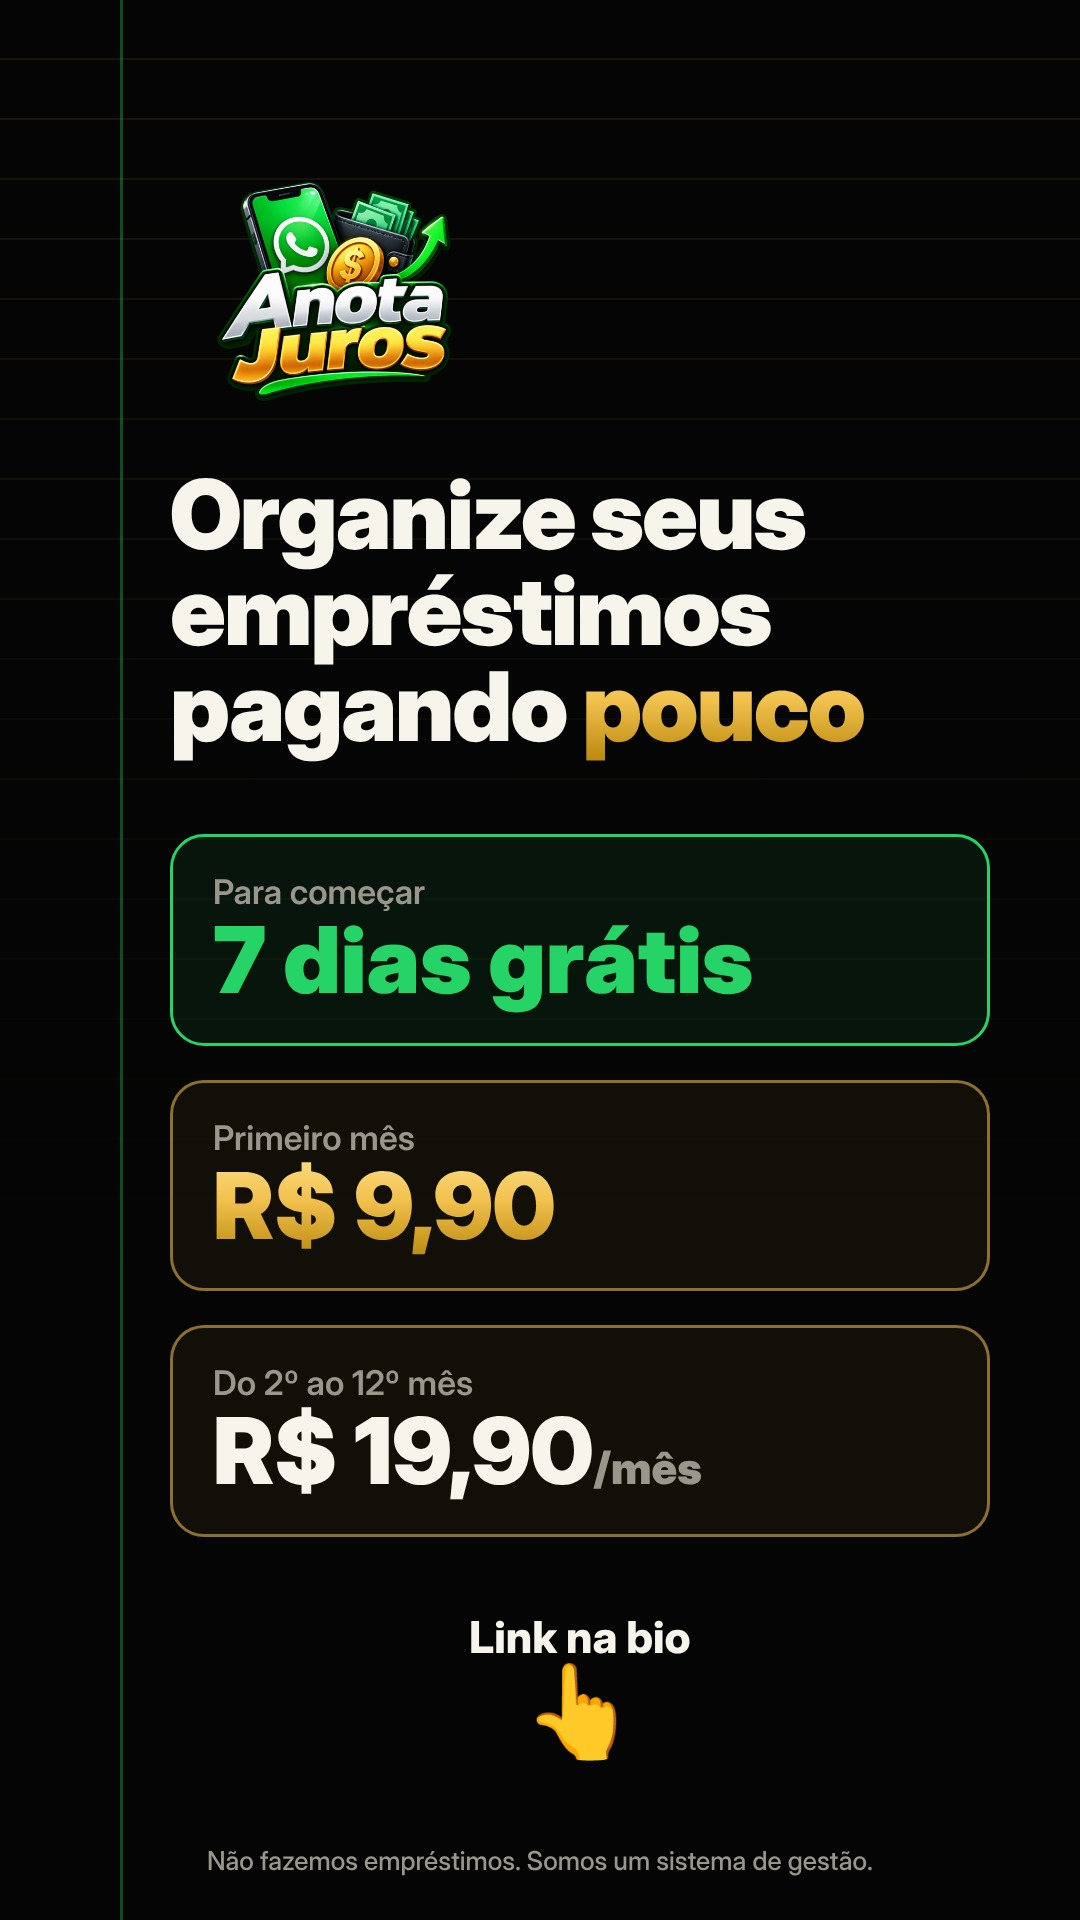
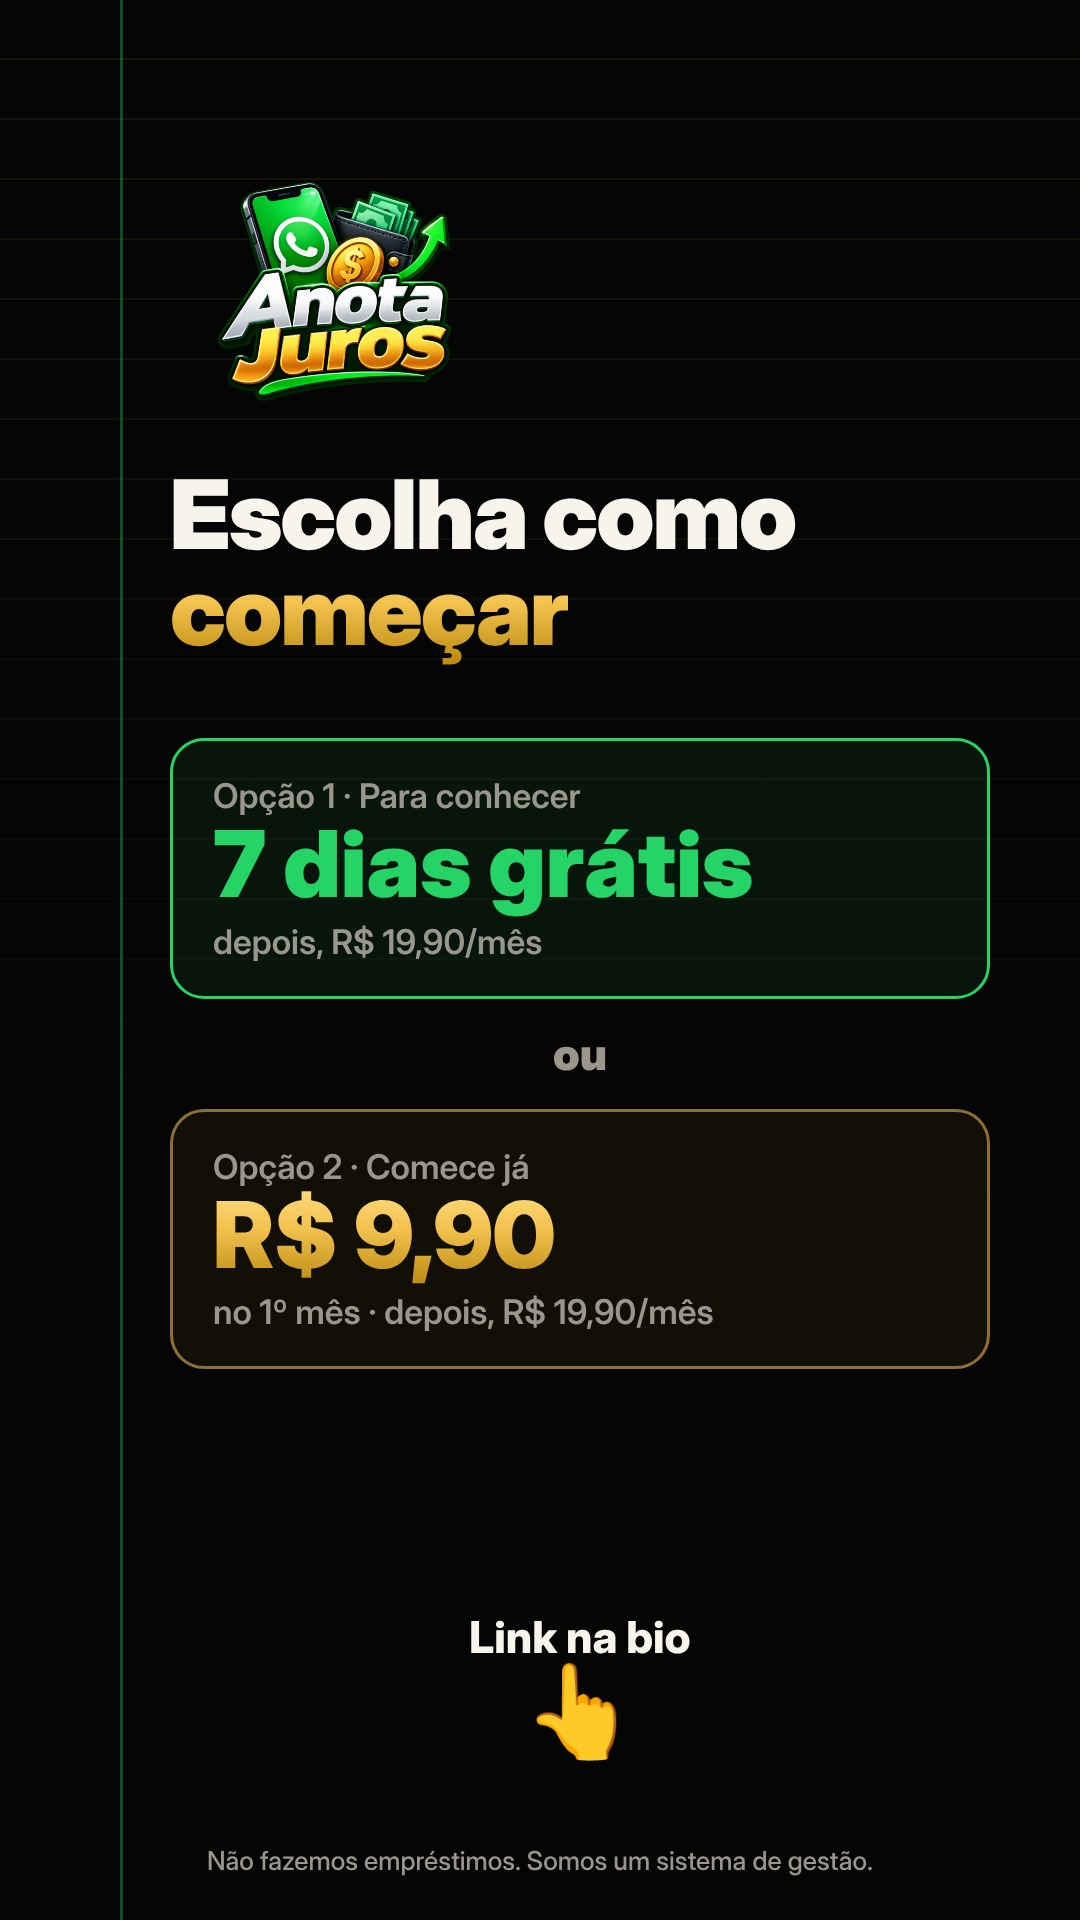
Promoção como duas opções: 7 dias grátis ou 1º mês R$ 9,90 (story 13h, legenda 16h, guia)
Claude-Session: https://claude.ai/code/session_01Ad3Ra5T3p1RSBzxi4V8pqW

diff --git a/modelos/exemplo-story.html b/modelos/exemplo-story.html
@@ -1,4 +1,4 @@
-<!doctype html><html><head><meta charset="utf-8"><link rel="stylesheet" href="base.css"><style>
+<!doctype html><html><head><meta charset="utf-8"><link rel="stylesheet" href="../../modelos/base.css"><style>
 body{--w:1080px;--h:1920px}
 .wrap{position:absolute;inset:0;padding:180px 90px 0 170px}
 .logo{width:330px;margin-bottom:60px}
@@ -9,17 +9,18 @@ h1{font-size:96px;line-height:1;font-weight:900;letter-spacing:-2px}
 .p strong{font-size:92px;font-weight:900;line-height:1.05}
 .p.gratis{border-color:var(--verde);background:rgba(37,211,102,.08)}
 .p.gratis strong{color:var(--verde)}
+.ou{text-align:center;font-size:44px;font-weight:900;color:var(--cinza);margin:-6px 0}
 .bio{position:absolute;left:170px;right:90px;top:1610px;text-align:center;font-size:44px;font-weight:800}
 .bio span{display:block;font-size:92px;line-height:1}
 </style></head><body>
 <div class="pauta"></div><div class="margem"></div>
 <div class="wrap">
-<img class="logo" src="anota-juros-logo.png">
-<h1>Organize seus<br>empréstimos<br>pagando <span class="ouro">pouco</span></h1>
+<img class="logo" src="../../modelos/anota-juros-logo.png">
+<h1>Escolha como<br><span class="ouro">começar</span></h1>
 <div class="precos">
-<div class="p gratis"><small>Para começar</small><strong>7 dias grátis</strong></div>
-<div class="p"><small>Primeiro mês</small><strong class="ouro">R$ 9,90</strong></div>
-<div class="p"><small>Do 2º ao 12º mês</small><strong>R$ 19,90<span style="font-size:44px;color:var(--cinza)">/mês</span></strong></div>
+<div class="p gratis"><small>Opção 1 · Para conhecer</small><strong>7 dias grátis</strong><small style="margin-top:8px">depois, R$ 19,90/mês</small></div>
+<div class="ou">ou</div>
+<div class="p"><small>Opção 2 · Comece já</small><strong class="ouro">R$ 9,90</strong><small style="margin-top:8px">no 1º mês · depois, R$ 19,90/mês</small></div>
 </div>
 </div>
 <div class="bio">Link na bio<span>👆</span></div>

diff --git a/fontes/2026-11-26/1300-story.html b/fontes/2026-11-26/1300-story.html
@@ -9,17 +9,18 @@ h1{font-size:96px;line-height:1;font-weight:900;letter-spacing:-2px}
 .p strong{font-size:92px;font-weight:900;line-height:1.05}
 .p.gratis{border-color:var(--verde);background:rgba(37,211,102,.08)}
 .p.gratis strong{color:var(--verde)}
+.ou{text-align:center;font-size:44px;font-weight:900;color:var(--cinza);margin:-6px 0}
 .bio{position:absolute;left:170px;right:90px;top:1610px;text-align:center;font-size:44px;font-weight:800}
 .bio span{display:block;font-size:92px;line-height:1}
 </style></head><body>
 <div class="pauta"></div><div class="margem"></div>
 <div class="wrap">
 <img class="logo" src="../../modelos/anota-juros-logo.png">
-<h1>Organize seus<br>empréstimos<br>pagando <span class="ouro">pouco</span></h1>
+<h1>Escolha como<br><span class="ouro">começar</span></h1>
 <div class="precos">
-<div class="p gratis"><small>Para começar</small><strong>7 dias grátis</strong></div>
-<div class="p"><small>Primeiro mês</small><strong class="ouro">R$ 9,90</strong></div>
-<div class="p"><small>Do 2º ao 12º mês</small><strong>R$ 19,90<span style="font-size:44px;color:var(--cinza)">/mês</span></strong></div>
+<div class="p gratis"><small>Opção 1 · Para conhecer</small><strong>7 dias grátis</strong><small style="margin-top:8px">depois, R$ 19,90/mês</small></div>
+<div class="ou">ou</div>
+<div class="p"><small>Opção 2 · Comece já</small><strong class="ouro">R$ 9,90</strong><small style="margin-top:8px">no 1º mês · depois, R$ 19,90/mês</small></div>
 </div>
 </div>
 <div class="bio">Link na bio<span>👆</span></div>

diff --git a/GUIA.md b/GUIA.md
@@ -8,10 +8,11 @@ Este guia orienta a criação diária automática. Siga à risca.
 - **Não fazemos empréstimos.** Toda peça e toda legenda deixam isso claro (rodapé da arte + linha na legenda).
 - Site/cadastro: link na bio (https://edison-loans-hq.lovable.app).
 
-## Promoções vigentes (só divulgar estas, com estes valores)
-- 7 dias de teste grátis.
-- Primeiro mês por R$ 9,90.
-- Do 2º ao 12º mês: R$ 19,90 por mês.
+## Promoções vigentes (só divulgar assim, como DUAS OPÇÕES — decisão do dono em 26/11/2026)
+- Opção 1: teste grátis de 7 dias; depois, R$ 19,90 por mês.
+- Opção 2: começar já, sem teste, com o 1º mês por R$ 9,90; depois, R$ 19,90 por mês.
+- NUNCA escrever "7 dias grátis E 1º mês por R$ 9,90" como se fossem juntos: o sistema não junta as duas.
+- Forma curta aprovada: "Teste 7 dias grátis ou comece já por R$ 9,90 no 1º mês".
 Se o dono avisar que mudou, atualize aqui antes de usar.
 
 ## Público
